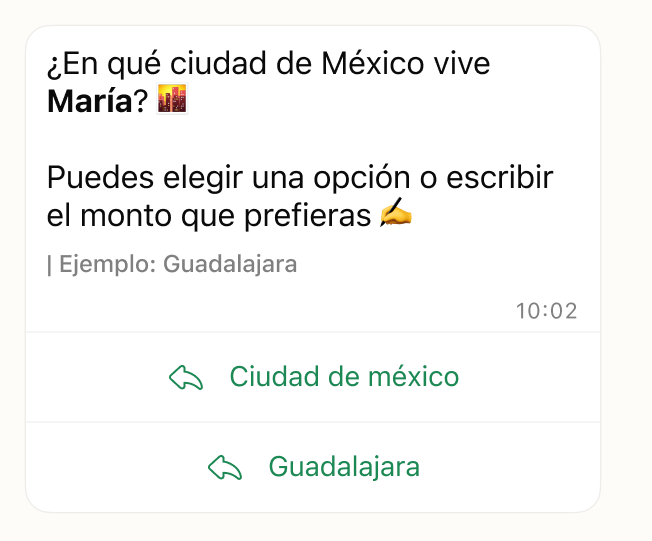
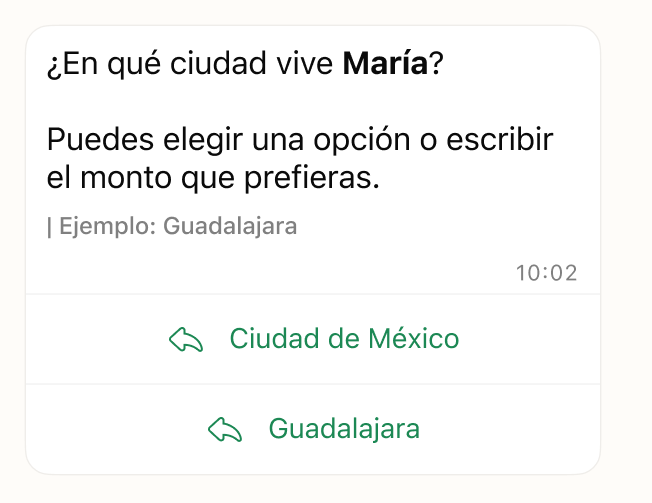
feat(design-system): add every Flows screenshot and refresh Mixed input and the flags pair
All eleven Flows images are in, exported from Figma at 2x through the bridge
and cropped with scripts/autocrop-figma-export.mjs; no page on the portal
shows a placeholder any more.

- Flows form: the launch-message, conditional-questions (NPS) and name-form
  pairs.
- Flows visual: the launch-message and onboarding pairs, and the hero, which is
  the first screen of the Cuenta Félix onboarding in production.
- Mixed input: the pair is re-exported after its screens were updated in Figma.
- Use of emojis: the flags do is re-exported; its don't came out byte-identical.

Two alt texts now describe what the screens actually show: the NPS do spans
two screens, the scale and then "¿Qué influyó más en tu calificación?"; and the
name-form don't keeps the box but unticked, with the second surname blank and
the button still active.

With no slot left waiting, the PENDING constant goes (it failed typecheck
unused). The placeholder SVG stays for the next pattern that arrives before
its screens, and the README says so.

diff --git a/apps/design-system/src/patterns/content.ts b/apps/design-system/src/patterns/content.ts
@@ -2453,30 +2453,27 @@ const formatHints: Pattern = {
    adelante se suman otros. Los dos abren una experiencia nativa sobre el chat
    desde un mensaje de lanzamiento con botón de acción.
 
-   Las dos pantallas del formulario ya salieron de Figma y se usan tanto en el
-   hero como en la galería de Specs, que es lo que pide el doc en los dos
-   lugares. El resto sigue pendiente de export: cada constante apunta al
-   marcador compartido y el comentario nombra el archivo que va en su lugar, así
-   que al llegar el PNG basta con reemplazar el valor de la constante. */
-const PENDING = `${ASSETS}/placeholder-hero.svg`;
+   Todas las pantallas salen del archivo de Figma (ver el README). En Flows:
+   form, la encuesta y el formulario de datos sirven tanto al hero como a la
+   galería de Specs, que es lo que pide el doc en los dos lugares. */
 
 const FLOWS_FORM_IMG = {
   survey: `${ASSETS}/flows-form-survey.png`,
   data: `${ASSETS}/flows-form-data.png`,
-  launchDo: PENDING, // flows-form-launch-do.png
-  launchDont: PENDING, // flows-form-launch-dont.png
-  branchDo: PENDING, // flows-form-branch-do.png
-  branchDont: PENDING, // flows-form-branch-dont.png
-  validateDo: PENDING, // flows-form-validate-do.png
-  validateDont: PENDING, // flows-form-validate-dont.png
+  launchDo: `${ASSETS}/flows-form-launch-do.png`,
+  launchDont: `${ASSETS}/flows-form-launch-dont.png`,
+  branchDo: `${ASSETS}/flows-form-branch-do.png`,
+  branchDont: `${ASSETS}/flows-form-branch-dont.png`,
+  validateDo: `${ASSETS}/flows-form-validate-do.png`,
+  validateDont: `${ASSETS}/flows-form-validate-dont.png`,
 };
 
 const FLOWS_VISUAL_IMG = {
-  onboarding: PENDING, // flows-visual-onboarding.png
-  launchDo: PENDING, // flows-visual-launch-do.png
-  launchDont: PENDING, // flows-visual-launch-dont.png
-  lengthDo: PENDING, // flows-visual-length-do.png
-  lengthDont: PENDING, // flows-visual-length-dont.png
+  onboarding: `${ASSETS}/flows-visual-onboarding.png`,
+  launchDo: `${ASSETS}/flows-visual-launch-do.png`,
+  launchDont: `${ASSETS}/flows-visual-launch-dont.png`,
+  lengthDo: `${ASSETS}/flows-visual-length-do.png`,
+  lengthDont: `${ASSETS}/flows-visual-length-dont.png`,
 };
 
 /* Los límites salen de la documentación de Flows y están resumidos, no
@@ -2675,8 +2672,8 @@ const flowsFormSections: StandardContent = {
         tone: "do",
         img: FLOWS_FORM_IMG.branchDo,
         alt: {
-          es: "Encuesta NPS: con una nota de 4, la pantalla siguiente pregunta qué podríamos mejorar, con opciones para elegir",
-          en: "NPS survey: after a score of 4, the next screen asks what we could improve, with options to pick from",
+          es: "Encuesta NPS en dos pantallas: la escala del 0 al 10 en la primera y, en la segunda, la pregunta de seguimiento «¿Qué influyó más en tu calificación?» con opciones para elegir",
+          en: 'NPS survey over two screens: the 0 to 10 scale on the first, and on the second the follow-up "¿Qué influyó más en tu calificación?" with options to pick from',
         },
         caption: {
           es: "La primera respuesta decide qué se pregunta después.",
@@ -2711,8 +2708,8 @@ const flowsFormSections: StandardContent = {
         tone: "dont",
         img: FLOWS_FORM_IMG.validateDont,
         alt: {
-          es: "El mismo formulario sin la casilla: el segundo apellido queda vacío y nada confirma si falta o no existe",
-          en: "The same form without the box: the second surname is left blank, with nothing to confirm whether it's missing or doesn't exist",
+          es: "El mismo formulario con el segundo apellido vacío y la casilla sin marcar, y el botón para continuar igual activo",
+          en: "The same form with the second surname blank, the box unticked, and the button to continue still active",
         },
         caption: {
           es: "Si el segundo apellido queda vacío por olvido, el banco no puede asociar la cuenta o la tarjeta al nombre completo.",

diff --git a/apps/design-system/README.md b/apps/design-system/README.md
@@ -59,9 +59,9 @@ src/
 The hero and `do` / `don't` images on the Conversational guidelines pages
 (`/patrones/:slug`) are PNGs exported from the Figma guidelines file
 (_DRAFT Conversational Guidelines_, page _Felix Plaza_) and committed to
-`public/assets/patterns/`. `src/patterns/content.ts` points at them by filename;
-slots still waiting on an export use the shared `PENDING` placeholder, with a
-comment naming the file that belongs there.
+`public/assets/patterns/`. `src/patterns/content.ts` points at them by filename.
+A slot still waiting on an export can point at the shared
+`placeholder-hero.svg`, with a comment naming the file that belongs there.
 
 **Every PNG in that folder is a 2x export.** `PatternPage` declares them as 2x
 (`srcSet`), so each one renders at its real Figma size and every WhatsApp bubble
